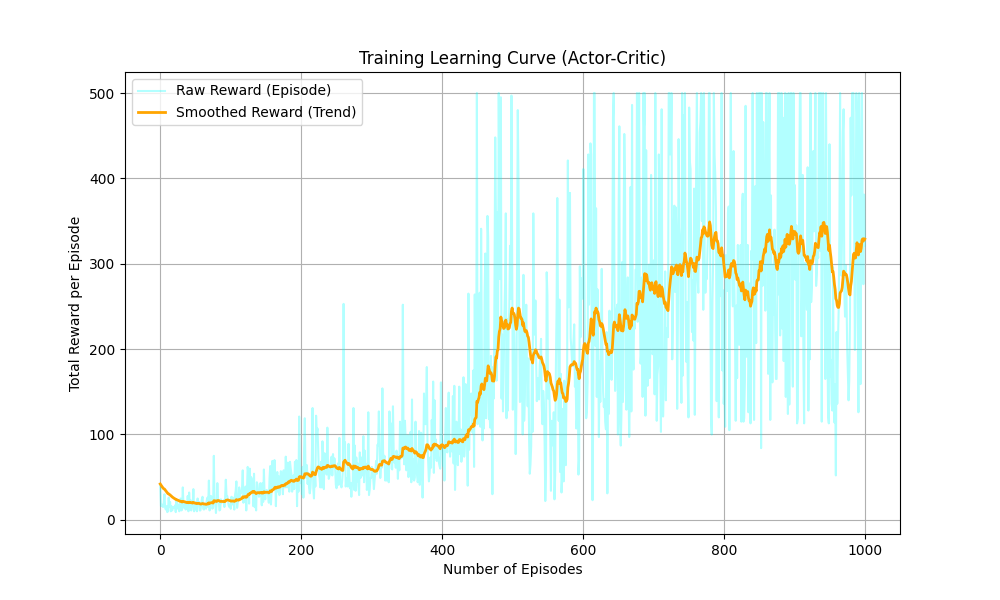
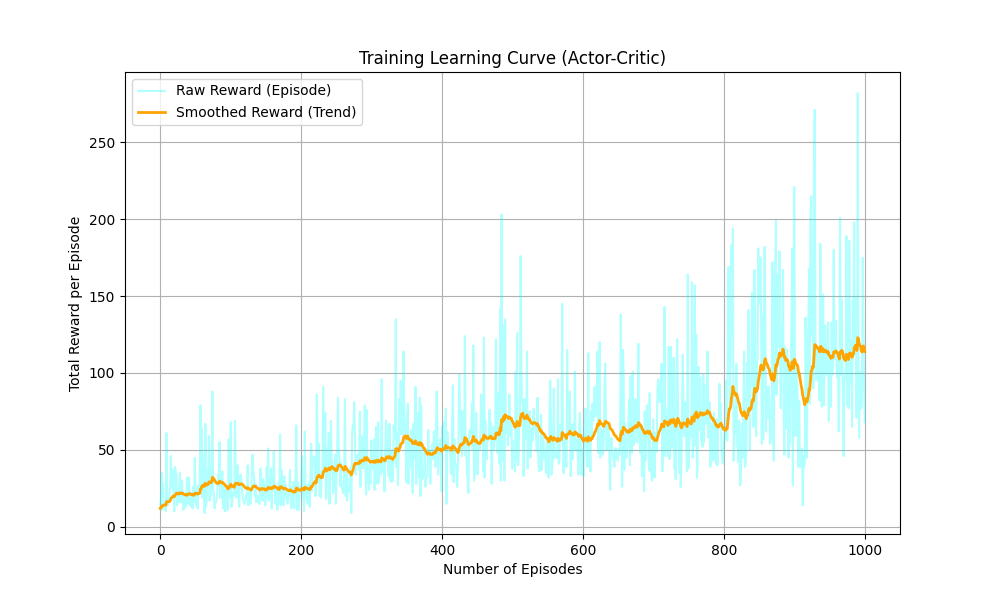
n_steps_update

diff --git a/agent.py b/agent.py
@@ -1,53 +1,74 @@
 import torch
 import torch.optim as optim
 import numpy as np
+import torch.nn.functional as F
 from model import ActorCritic
 from params import params
 
 class A2CAgent:
     def __init__(self, input_dim, n_actions):
         self.gamma = params.gamma
-        self.lr = params.learning_rate
-        self.model = ActorCritic(input_dim, n_actions).to(params.device)
-        self.optimizer = optim.Adam(self.model.parameters(), lr=self.lr)
-        
-    def get_action(self, state):
-        state = torch.tensor(state, dtype=torch.float32).to(params.device)
-        action_probs, state_value = self.model(state)
-        dist = torch.distributions.Categorical(action_probs)
-        action = dist.sample()
-        log_prob = dist.log_prob(action)
+        self.entropy_beta = params.entropy_beta
+        self.device = params.device
 
-        return action.item(), log_prob, state_value
+        self.model = ActorCritic(input_dim, n_actions).to(self.device)
+        self.optimizer = optim.Adam(self.model.parameters(), lr=params.learning_rate)
 
-    def compute_loss(self, log_probs, state_values, rewards, masks):
+    def select_action(self, state, deterministic=False):
+        state = torch.tensor(state, dtype=torch.float32).to(self.device)
+        probs, value = self.model(state)
+
+        if deterministic:
+            action = torch.argmax(probs)
+            log_prob = torch.log(probs[action] + 1e-8)
+            entropy = torch.tensor(0.0).to(self.device)
+        else:
+            dist = torch.distributions.Categorical(probs)
+            action = dist.sample()
+            log_prob = dist.log_prob(action)
+            entropy = dist.entropy()
+        return action.item(), log_prob, entropy, value
+
+    def compute_n_step_returns(self, rewards, masks, next_value):
+        R = next_value
         returns = []
-        R = 0
-        
         for step in reversed(range(len(rewards))):
             R = rewards[step] + self.gamma * R * masks[step]
             returns.insert(0, R)
-            
-        returns = torch.tensor(returns).to(params.device)
+        return torch.stack(returns)
+
+    def update(self, log_probs, values, rewards, masks, entropies, next_state):
+        with torch.no_grad():
+            next_state = torch.tensor(next_state, dtype=torch.float32).to(self.device)
+            _, next_value = self.model(next_state)
+
+        returns = self.compute_n_step_returns(rewards, masks, next_value)
+
         log_probs = torch.stack(log_probs)
-        state_values = torch.stack(state_values).squeeze()
-        
-        advantage = returns - state_values
-        
+        values = torch.stack(values).squeeze(-1)
+        entropies = torch.stack(entropies)
+
+        advantage = returns - values
+
         actor_loss = -(log_probs * advantage.detach()).mean()
-        critic_loss = torch.nn.functional.mse_loss(state_values, returns)
-        loss = actor_loss + critic_loss
+        critic_loss = F.mse_loss(values, returns.squeeze(-1))
+        entropy_loss = entropies.mean()
 
-        return loss
+        loss = actor_loss + 0.5 * critic_loss - self.entropy_beta * entropy_loss
 
-    def update_model(self, loss):
         self.optimizer.zero_grad()
         loss.backward()
         self.optimizer.step()
-        
+
     def save_model(self, path):
-        torch.save(self.model.state_dict(), path)
-        
-    def load_model(self, path):
-        self.model.load_state_dict(torch.load(path))
-        self.model.eval()
+        torch.save({
+            "model": self.model.state_dict(),
+            "optimizer": self.optimizer.state_dict()
+        }, path)
+
+    def load_model(self, path, eval_mode=False):
+        checkpoint = torch.load(path, map_location=self.device)
+        self.model.load_state_dict(checkpoint["model"])
+        self.optimizer.load_state_dict(checkpoint["optimizer"])
+        if eval_mode:
+            self.model.eval()

diff --git a/training.py b/training.py
@@ -1,7 +1,6 @@
-import gymnasium as gym
-from params import params
-from utils import utils
 import torch
+from utils import utils
+from params import params
 
 class Training:
     def __init__(self, agent, env):
@@ -17,48 +16,41 @@ class Training:
 
         for episode in range(n_episode):
             done = False
-            log_probs = []
-            values = []
-            rewards = []
-            masks = []
+            log_probs, values, rewards, masks, entropies = [], [], [], [], []
             state, _ = self.env.reset()
-            total_rewards = 0
-            step = 0
+            total_reward = 0
 
             while not done:
-                action, log_prob, value = self.agent.get_action(state)
+                action, log_prob, entropy, value = self.agent.select_action(state)
                 next_state, reward, terminated, truncated, _ = self.env.step(action)
+                done = terminated or truncated
 
-                done = truncated or terminated
+                mask = 0.0 if done else 1.0
 
                 log_probs.append(log_prob)
                 values.append(value)
-                rewards.append(reward)
-                masks.append(0 if done else 1)
+                rewards.append(torch.tensor(reward, dtype=torch.float32, device=self.agent.device))
+                masks.append(torch.tensor(mask, dtype=torch.float32, device=self.agent.device))
+                entropies.append(entropy)
 
-                total_rewards = total_rewards + reward
                 state = next_state
-                step = step + 1
+                total_reward += reward
 
-            loss = self.agent.compute_loss(log_probs, values, rewards, masks)
-            self.agent.update_model(loss)
+            # Update agent using n-step returns
+            self.agent.update(log_probs, values, rewards, masks, entropies, next_state)
 
+            # Update running reward
             if episode == 0:
-               running_reward = total_rewards
+                running_reward = total_reward
             else:
-                running_reward = 0.05 * total_rewards + 0.95 * running_reward
+                running_reward = 0.05 * total_reward + 0.95 * running_reward
 
-            raw_history.append(total_rewards)
+            raw_history.append(total_reward)
             smoothed_history.append(running_reward)
 
             if episode % 10 == 0:
-                print(f"Episode {episode} \t Raw {total_rewards} \t Smooth {running_reward}" )
-        
+                print(f"Episode {episode}\tRaw: {total_reward:.2f}\tSmooth: {running_reward:.2f}")
+
         utils.save_model(self.agent)
-        utils.plot_learning_curve(raw_rewards = raw_history, smoothed_rewards = smoothed_history)
+        utils.plot_learning_curve(raw_rewards=raw_history, smoothed_rewards=smoothed_history)
         self.env.close()
-    
-            
-
-
-                

diff --git a/testing.py b/testing.py
@@ -1,41 +1,33 @@
-import gymnasium as gym
 import torch
 from params import params
 from utils import utils
 
-class Testing():
+class Testing:
     def __init__(self, agent, env):
         self.agent = agent
         self.env = env
 
     def start_testing(self):
-        #load model từ file
         try:
-            utils.load_model(agent = self.agent)
+            utils.load_model(agent=self.agent)
         except:
             print(f"Chưa có file model tại {params.save_path}")
             return
-        
-        self.agent.model.eval() # Chuyển sang chế độ test
 
+        self.agent.model.eval()
         state, _ = self.env.reset()
         done = False
         total_reward = 0
-            
+
         while not done:
-            # Chuyển state sang tensor
-            state_tensor = torch.FloatTensor(state).to(params.device)
-                
-            # Chỉ cần lấy action từ model, không cần tính toán loss
+            state_tensor = torch.tensor(state, dtype=torch.float32).to(params.device)
             with torch.no_grad():
-                dist, _ = self.agent.model(state_tensor)
-                action = torch.argmax(dist).item() 
-                
+                probs, _ = self.agent.model(state_tensor)
+                action = torch.argmax(probs).item()
+
             state, reward, terminated, truncated, _ = self.env.step(action)
             done = terminated or truncated
             total_reward += reward
-                
-        print(f"Điểm số = {total_reward}")
 
-            
+        print(f"Điểm số = {total_reward}")
         self.env.close()

diff --git a/params.py b/params.py
@@ -15,6 +15,8 @@ class Params:
         self.training_num_episodes = 1000   # Tổng số màn chơi để train
         self.max_steps = 500       # Số bước tối đa mỗi màn (CartPole v1 max là 500)
         
+        self.entropy_beta = 0.01
+
         self.save_path = "cartpole_a2c_best.pth"
 
         self.device = torch.device("cuda" if torch.cuda.is_available() else "cpu")
